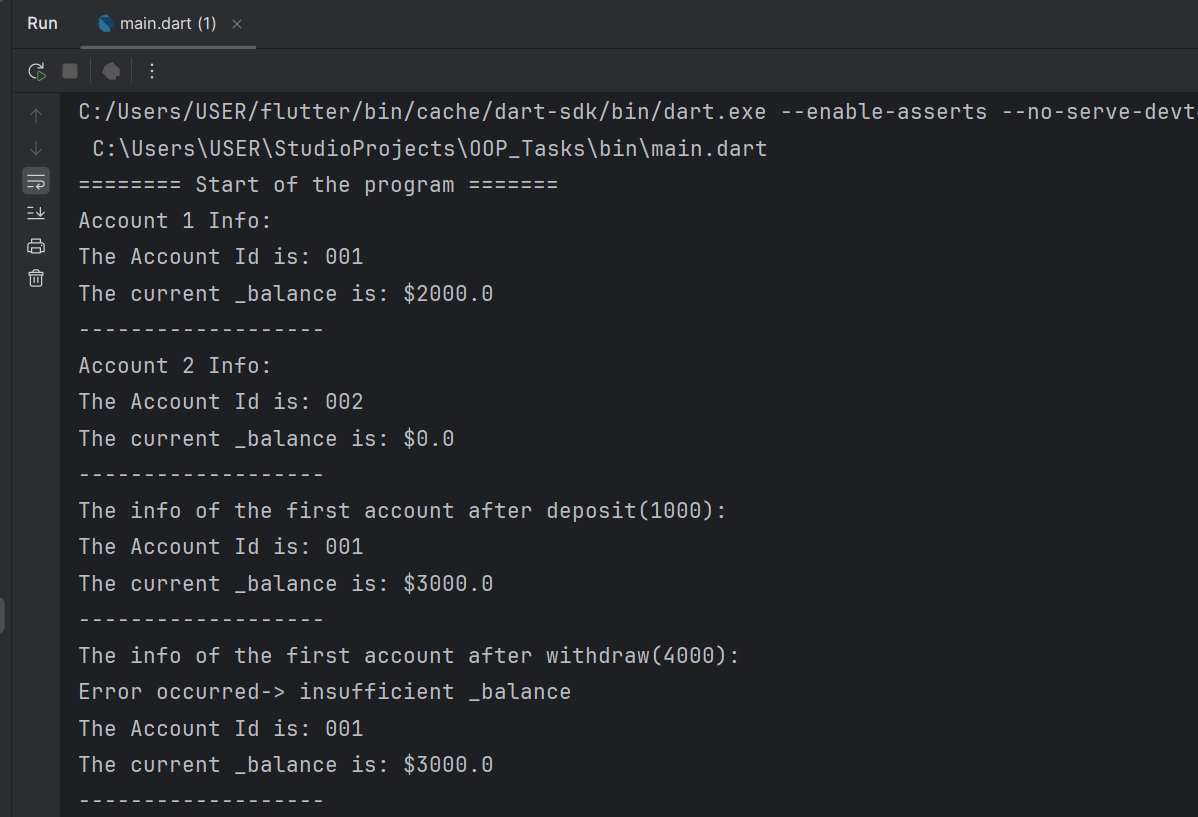
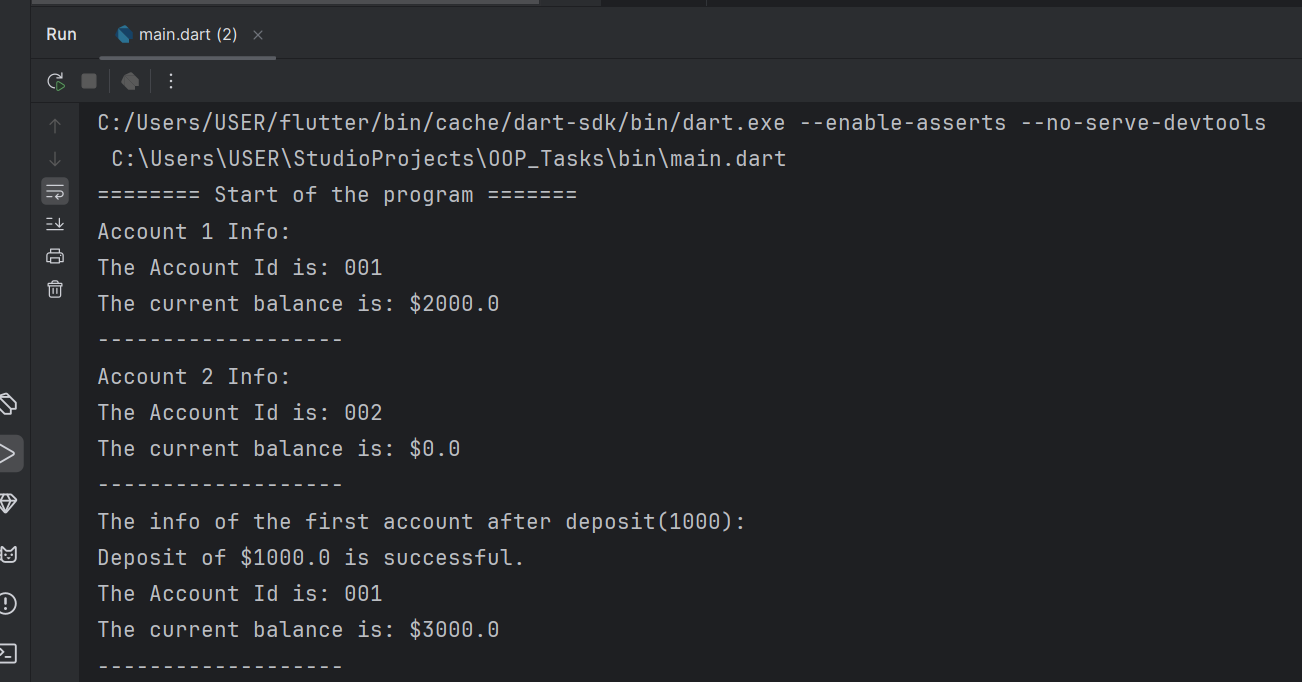
Add another scenario

diff --git a/bin/main.dart b/bin/main.dart
@@ -1,3 +1,5 @@
+import 'dart:io';
+
 import 'bank_account_class.dart';
 
 void main() {
@@ -8,7 +10,6 @@ void main() {
   // Create object using named constructor
   BankAccount bankAccount2 = BankAccount.withOptionalBalance('002');
 
-
   // Display initial accounts information
   print("Account 1 Info:");
   bankAccount1.displayAccountInfo();
@@ -17,9 +18,10 @@ void main() {
   bankAccount2.displayAccountInfo();
 
   // Perform deposit and withdrawal operations for Account 1
+
   // First scenario
-  bankAccount1.deposit(1000);
   print('The info of the first account after deposit(1000):');
+  bankAccount1.deposit(1000);
   bankAccount1.displayAccountInfo();
   print('The info of the first account after withdraw(4000):');
   // insufficient balance
@@ -33,13 +35,31 @@ void main() {
 
   // Perform deposit and withdrawal operations for Account 2
   // Third scenario
-  bankAccount2.deposit(1000);
   print('The info of the second account after deposit(1000):');
+  bankAccount2.deposit(1000);
   bankAccount2.displayAccountInfo();
-  print('The info of the second account after withdraw(4000):');
+  print('The info of the second account after withdraw(500):');
   // Successful withdrawal
   bankAccount2.withdraw(500);
   bankAccount2.displayAccountInfo();
 
+  // Fourth scenario
+  // Take the amount to deposit or withdraw for bank account2 from the user
+  print("You can enter the amount you want to deposit:");
+  double? value = double.tryParse(stdin.readLineSync() ?? "");
+  if(value != null) {
+    bankAccount1.deposit(value);
+  } else {
+    print("Please enter valid number");
+  }
+
+  // Second, ask the user to enter amount to withdraw for bank account2
+  print("Do you want to withdraw? if yes, Please enter the amount you need:");
+  double? withdrawValue = double.tryParse(stdin.readLineSync() ?? "");
+  if(withdrawValue != null) {
+    bankAccount2.withdraw(withdrawValue);
+  } else {
+    print("Please enter valid number");
+  }
   print('======== End of the program =======');
 }

diff --git a/bin/bank_account_class.dart b/bin/bank_account_class.dart
@@ -1,4 +1,5 @@
 class BankAccount {
+
   //Fields
   final String _accountId;
 
@@ -15,6 +16,7 @@ class BankAccount {
   // Deposit function
   void deposit(double amount) {
     balance += amount;
+    print("Deposit of \$$amount is successful.");
   }
 
   // Withdraw function
@@ -22,17 +24,17 @@ class BankAccount {
     if (amount < 0) {
       print('Error occurred-> amount cannot be negative');
     } else if (amount > balance) {
-      print('Error occurred-> insufficient _balance');
+      print('Error occurred-> insufficient balance');
     } else {
       balance -= amount;
-      print("Withdrawal of \$$amount successful.");
+      print("Withdrawal of \$$amount is successful.");
     }
   }
 
   // Display function
   void displayAccountInfo() {
     print('The Account Id is: $_accountId');
-    print('The current _balance is: \$$balance');
+    print('The current balance is: \$$balance');
     print('-------------------');
   }
 }

diff --git a/README.md b/README.md
@@ -1,4 +1,4 @@
-OOP Task1: Bank Account Class:   
+OOP Task1: Bank Account Class:
 
 A dart project that contains a bank account class:
 The bank account class has two fields(accountId and balance), and three methods (deposit, withdraw,
@@ -7,10 +7,12 @@ Also includes two constructors(one for the accountId only and the other is named
 balance and accountId).
 
 Code explanation:
-1- First, i created the bank account class with all of its data. 
+1- First, i created the bank account class with all of its data.
 2- Then i created two objects from the bank account class in main.dart file.
-3- The first account is created using the default constructor with account id of 001 and balance of 2000.
-and the second account is created using the named constructor with accountId 002 and initialize balance to zero.
+3- The first account is created using the default constructor with account id of 001 and balance of
+2000.
+and the second account is created using the named constructor with accountId 002 and initialize
+balance to zero.
 4- The scenario is tested by creating an account and depositing money, then withdraw money, and then
 printing the account information.
 
@@ -24,6 +26,9 @@ account information includes an error message if exists.
 The third scenario using `bankAccount2` object and depositing amount of 1000, then withdraw
 500, and finally printing the
 account information includes an error message if exists.
+
+The fourth scenario is taking the amount to deposit or withdraw for bank account2 from the user
+and check for this value to deposit or withdraw.
 
 My code in bin/main.dart,   
 Bank account class in bin/bank_account_class.dart,   
